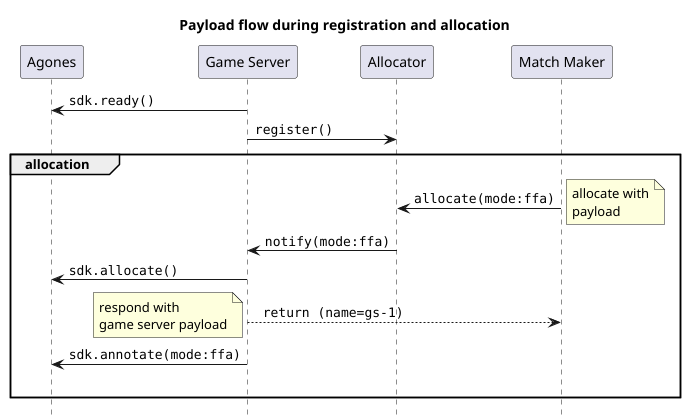
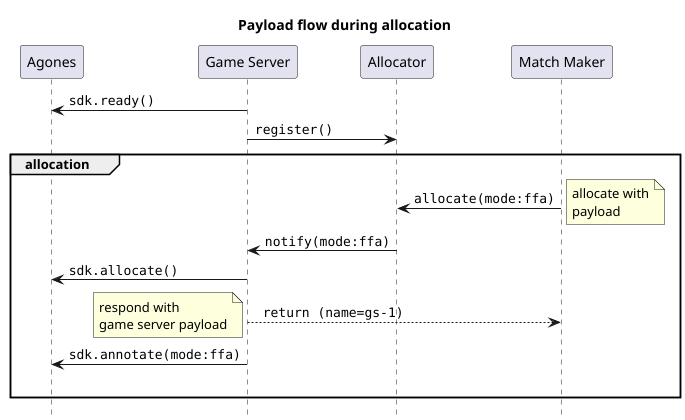
fix: rename title

Changed region(s): [[0.2453, 0.031, 0.7358, 0.0929]]

diff --git a/src/multiplayer-servers/multiplayer-services/server-allocation/allocating-from-armadas.md b/src/multiplayer-servers/multiplayer-services/server-allocation/allocating-from-armadas.md
@@ -23,7 +23,7 @@ If the callback endpoint returns a JSON response body, this will be embedded und
 to the `/allocate` call. This is especially useful to transmit identifiers that are important for matching telemetry,
 such as host names.
 
-![request-payload.png "Payload flow during registration and allocation"](images/allocating-from-armadas/request-payload.png)
+![request-payload.png "Payload flow during allocation"](images/allocating-from-armadas/request-payload.png)
 
 In addition to this custom data, the response to `/allocate` will also include the `token` that was used for
 authentication towards the callback endpoint. This establishes a common identifier for the allocation between the
